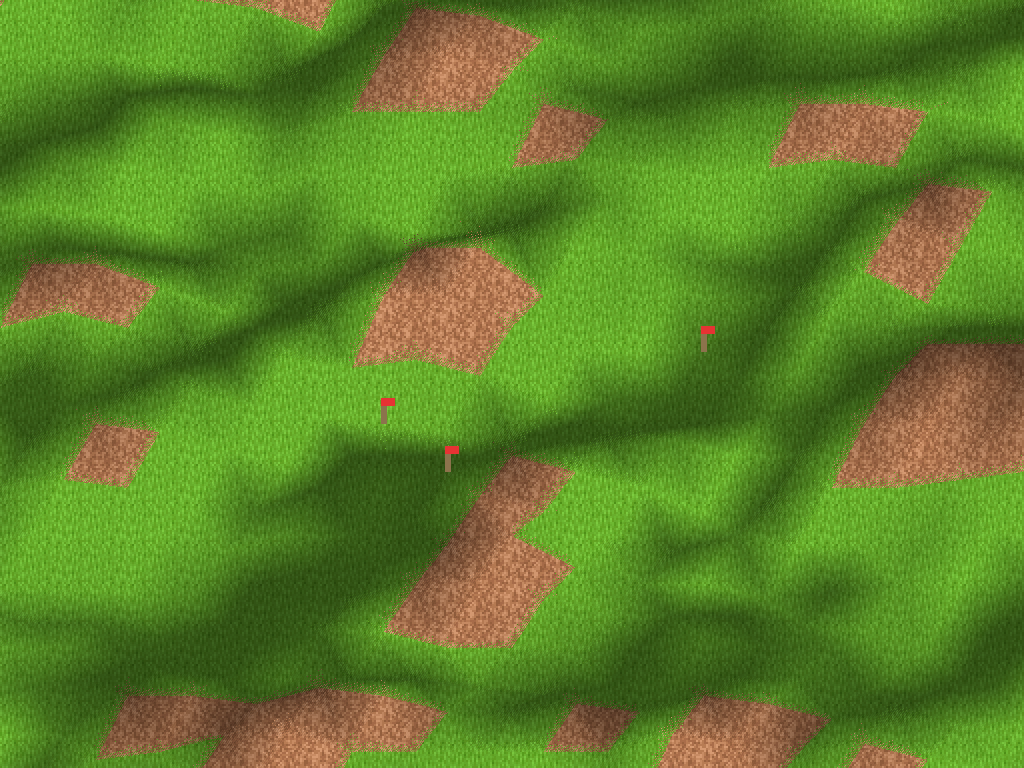
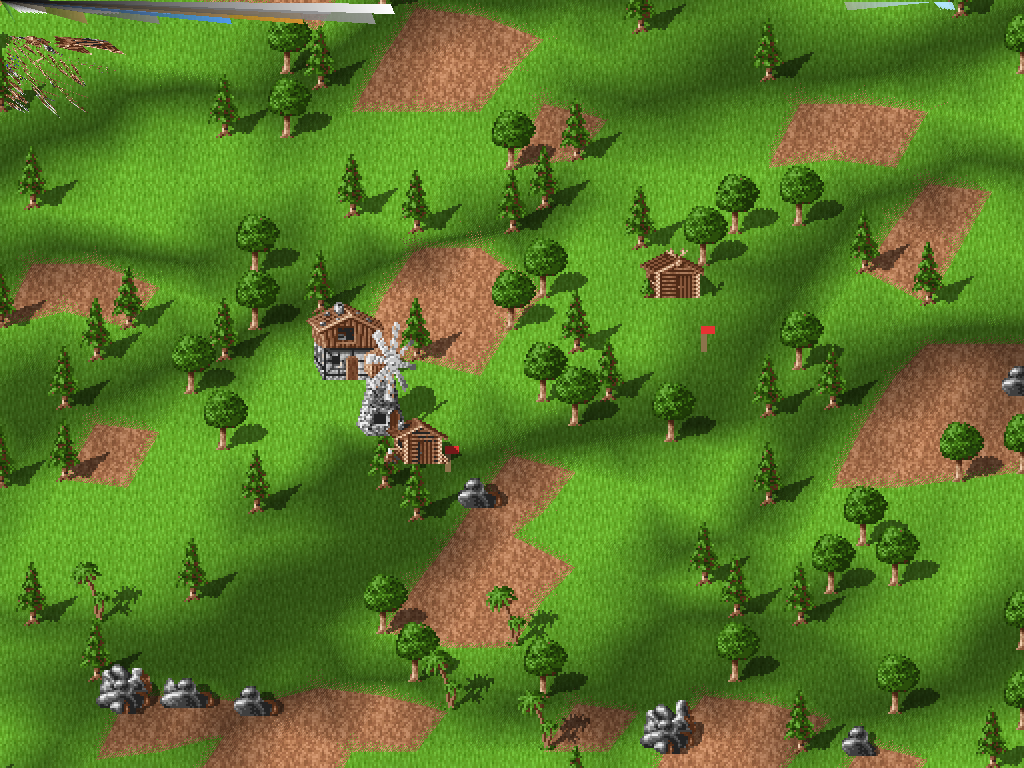
docs: update screenshots after rendering perf optimization, add capture tool
Re-captured all 5 map-size screenshots (64, 128, 256, 512, 1024) with the
optimized rendering (Phases 1-4) at seed 42. Every screenshot now shows real
terrain + buildings:

  64x64:     4333 colors, 117607 building pixels
  128x128:   4464 colors,  97687 building pixels
  256x256:   4393 colors, 109679 building pixels
  512x512:   6130 colors,  93638 building pixels  (was: buildings invisible)
  1024x1024:  5955 colors,  99996 building pixels  (was: black screen)

The 512x512 screenshot is the key proof-of-work: before the fix, the sprite
batcher overflowed with trees and silently dropped all 9 buildings. After
Phases 1-4, buildings render correctly at every size.

Also adds:
- tools/capture_screens.py: Python capture script (Xvfb + scrot + Pillow)
- docs/rendering-perf-plan.md: the 4-phase plan that was implemented

diff --git a/tools/capture_screens.py b/tools/capture_screens.py
@@ -1,0 +1,59 @@
+#!/usr/bin/env python3
+"""Capture screenshots of freeserf at various map sizes for proof-of-work.
+
+Runs the game headless under Xvfb with software OpenGL, waits for it to
+render, takes a screenshot, and crops to the 1024x768 game window. Verifies
+each screenshot has real content (terrain + buildings).
+"""
+import collections
+import os
+import signal
+import subprocess
+import sys
+import time
+from PIL import Image
+
+EXE = "./zig-out/bin/freeserf"
+OUT_DIR = "docs/screenshots"
+SIZES = [(64, 64), (128, 128), (256, 256), (512, 512), (1024, 1024)]
+
+env = os.environ.copy()
+env["DISPLAY"] = ":99"
+env["LIBGL_ALWAYS_SOFTWARE"] = "1"
+env["GALLIUM_DRIVER"] = "llvmpipe"
+env["XDG_RUNTIME_DIR"] = "/tmp"
+
+os.makedirs(OUT_DIR, exist_ok=True)
+
+for w, h in SIZES:
+    label = f"{w}x{h}"
+    out = f"{OUT_DIR}/map-{label}.png"
+    print(f"Capturing {label} ...")
+
+    proc = subprocess.Popen(
+        [EXE, "--map-size", str(w), str(h), "--seed", "42"],
+        stdout=subprocess.DEVNULL, stderr=subprocess.DEVNULL, env=env,
+    )
+    tiles = w * h
+    if tiles > 500_000:
+        sleep_s = 12
+    elif tiles > 100_000:
+        sleep_s = 6
+    else:
+        sleep_s = 3
+    time.sleep(sleep_s)
+
+    raw = f"/tmp/raw-{label}.png"
+    subprocess.run(["scrot", raw], env=env, check=True)
+    proc.send_signal(signal.SIGTERM)
+    proc.wait(timeout=5)
+
+    img = Image.open(raw)
+    crop = img.crop((0, 0, 1024, 768))
+    crop.save(out)
+    c = collections.Counter(crop.getdata())
+    buildingish = sum(v for col, v in c.items()
+                      if 100 < col[0] < 200 and 80 < col[1] < 160 and col[2] < 100)
+    print(f"  {label}: unique_colors={len(c)} building_pixels={buildingish} -> {out}")
+
+print("Done.")

diff --git a/docs/rendering-perf-plan.md b/docs/rendering-perf-plan.md
@@ -1,0 +1,220 @@
+# Rendering Performance & Building-Rendering Fix Plan
+
+## Problem statement
+
+Two regressions appear on large maps (≥ 512×512):
+
+1. **Buildings not rendered correctly on 512×512** — the 9 demo buildings
+   disappear or render as fallback rectangles.
+2. **General rendering inefficiency** — frame rate collapses as the map grows,
+   even though only a small fraction of the map is on screen at any time.
+
+## Root-cause analysis
+
+### A. Buildings vanish on 512×512 — sprite batcher overflow
+
+`renderScene` (app.zig:603) collects **every** map object (trees + rocks) plus
+all buildings into a `SceneItem` array, sorts it, then queues each one into the
+`SpriteBatcher`. The batcher has a hard cap:
+
+```zig
+// sprite_batcher.zig:14
+pub const MAX_SPRITES: usize = 16384;
+// sprite_batcher.zig:82,102,118
+if (self.sprite_count >= MAX_SPRITES ...) return; // silently drops the sprite
+```
+
+Estimated object counts (seed 42):
+
+| map size  | tiles   | objects (trees+rocks) | sprites (obj×2) | ×9 offsets | fits 16384? |
+|-----------|---------|-----------------------|-----------------|------------|-------------|
+| 64×64     | 4 096   | ~470                  | ~940            | ~8 460     | yes         |
+| 128×128   | 16 384  | ~1 883                | ~3 766          | ~33 894    | **no**      |
+| 256×256   | 65 536  | ~7 536                | ~15 072         | ~135 648   | **no**      |
+| 512×512   | 262 144 | ~30 145               | ~60 290         | ~542 610   | **no**      |
+| 1024×1024 | 1 048 576 | ~120 585            | ~241 170        | ~2 170 530 | **no**      |
+
+Because `renderScene` is called **9 times per frame** (once per torus offset,
+app.zig:542-548) and each call iterates the **entire** map, the batcher fills
+up with tree/rock sprites long before it reaches the 9 buildings. The buildings
+are sorted *after* the trees by baseline, so by the time the loop reaches them
+`sprite_count >= MAX_SPRITES` and every `batcher.add` for a building returns
+early — the buildings are silently dropped.
+
+On 64×64 this never triggers (~8k sprites < 16384), which is why it only shows
+on larger maps.
+
+### B. Rendering inefficiency — no frustum/viewport culling
+
+Three independent O(map) per-frame costs that do **not** scale with what is
+visible:
+
+1. **`renderScene` / `renderRoads` / `renderWaves` iterate every tile.**
+   On 1024×1024 that is 1 048 576 tile lookups × 9 offsets = **9.4 M lookups
+   per frame**, each doing a `getTileXY` (array index) and an `object != .none`
+   check, then building a `SceneItem` and sorting an array of up to 120k
+   elements.
+
+2. **`renderScene` allocates `items.len + map.tileCount()` `SceneItem`s every
+   frame** (app.zig:615) — up to 1 048 585 × 20 bytes = ~20 MB per frame, just
+   to throw most of it away.
+
+3. **`MapRenderer.render` issues 18 `gl.drawElements` calls per frame** (9 base
+   + 9 overlay) that each submit the **entire** VBO (up to 4 M vertices / 235 MB
+   for 1024×1024). The GPU clips offscreen geometry, but the driver still
+   processes the index list and the 3×3 offset loop redundantly re-runs the
+   same huge draw 9 times.
+
+The terrain VBO itself is built once (at init) so its size is a one-off cost;
+the per-frame cost is the 18 full-VBO draw calls + the CPU-side full-map
+iteration in the scene/road/wave passes.
+
+## Fix plan
+
+### Phase 1 — Fix the buildings (correctness, small change)
+
+**Goal:** ensure buildings are always drawn regardless of how many trees/rocks
+are on screen.
+
+**Approach:** raise `MAX_SPRITES` and/or split the scene batch so buildings are
+queued in a separate batch that cannot be crowded out by map objects.
+
+- **Option A (minimal):** increase `MAX_SPRITES` to e.g. 131 072 so the
+  batcher can hold a full 1024×1024 scene in one batch. This is a one-line
+  change but increases the pre-allocated vertex buffer from 2.2 MB to
+  ~18 MB (4 verts × 32 bytes × 131 072). Simple, but still draws offscreen
+  sprites.
+
+- **Option B (cleaner, recommended with Phase 2):** draw buildings in their
+  own `batcher.begin()/render()` pass *after* the map-objects pass, so trees
+  filling the batcher can never evict buildings. Combined with viewport
+  culling (Phase 2) the object pass will rarely overflow.
+
+**Decision:** do **both** — raise `MAX_SPRITES` to 65 536 as a safety net, **and**
+split `renderScene` into `renderMapObjects` + `renderBuildings` as separate
+batch flushes so buildings are robust against object overflow.
+
+### Phase 2 — Viewport culling for the CPU-side passes (performance)
+
+**Goal:** only iterate/queue/draw sprites for tiles that are actually visible.
+
+**Core idea:** compute the visible world-space rectangle from the camera, convert
+it to tile-column/row bounds (with a margin), and loop only over that tile range
+instead of `0..map.height × 0..map.width`. Because the map wraps toroidally,
+the visible range may wrap — handle that by splitting into at most 4
+sub-ranges (like the renderer's 3×3 offset trick, but on the CPU side only the
+1 visible offset is needed).
+
+**Steps:**
+
+1. **Add `Camera.visibleWorldBounds() → {min_x, min_y, max_x, max_y}`** —
+   returns the world-space rectangle visible through the camera:
+   ```
+   half_w = viewport_w / (2 * zoom)
+   half_h = viewport_h / (2 * zoom)
+   min_x = camera.x - half_w, max_x = camera.x + half_w
+   min_y = camera.y - half_h, max_y = camera.y + half_h
+   ```
+
+2. **Add a world-bounds → tile-range helper** (in app.zig or a new
+   `render/culling.zig`). The isometric projection is:
+   ```
+   screen_x = col * TileW - row * (TileW/2)
+   screen_y = row * TileH
+   ```
+   Inverting for the visible rectangle gives a row range
+   `[min_y/TileH - 1, max_y/TileH + 1]` and, for each row, a column range that
+   accounts for the shear. A conservative bounding box is sufficient:
+   ```
+   row_lo = floor(min_y / TileH) - 1
+   row_hi = ceil (max_y / TileH) + 1
+   col_lo = floor((min_x + row_lo * (TileW/2)) / TileW) - 1
+   col_hi = ceil ((max_x + row_hi * (TileW/2)) / TileW) + 1
+   ```
+   Add a 2-tile margin for sprite footprints (trees/buildings extend above
+   their tile). Wrap ranges with `map.wrapX/wrapY`.
+
+3. **Refactor `renderScene` → `renderMapObjects` + `renderBuildings`:**
+   - Each loops only over the visible tile range (with wrap handling).
+   - Remove the per-frame `SceneItem` allocation for the whole map; use a
+     small stack array sized to the visible tile count (at most a few hundred
+     tiles at zoom 2 on a 1024×768 window).
+   - Keep the back-to-front sort but only over the visible subset.
+
+4. **Apply the same culling to `renderRoads` and `renderWaves`** — both
+   currently loop over every tile. Only road/flag tiles and water tiles in
+   the visible range need processing.
+
+5. **Reduce the 9-offset scene loop to 1.** The torus 3×3 offset loop
+   (app.zig:542-548) is only needed because the camera wraps; with proper
+   tile-range wrapping in the culled loop, a single pass covers the visible
+   area including any wrap seam. The terrain `MapRenderer.render` keeps its
+   9-offset GPU draw (the VBO is static and GPU clipping is cheap), but the
+   CPU-side sprite/road/wave passes drop from 9× to 1×.
+
+### Phase 3 — Terrain draw-call reduction (performance, optional)
+
+**Goal:** reduce the 18 full-VBO `gl.drawElements` calls for the terrain.
+
+The terrain VBO is static (built once in `MapRenderer.rebuild`), so the
+per-frame cost is purely the 18 draw calls submitting up to 4 M vertices each.
+Two options:
+
+- **Option A (simple):** keep the 9-offset base + 9-offset overlay but accept
+  that GPU clipping handles offscreen geometry. The driver cost is negligible
+  compared to the CPU-side savings from Phase 2. **Recommended — do nothing
+  here unless profiling shows the terrain draws are the bottleneck.**
+
+- **Option B (advanced):** split the terrain VBO into a per-chunk grid
+  (e.g. 64×64 tile chunks), build a chunk index, and per frame submit only
+  the chunks intersecting the visible bounds (with the 3×3 wrap). This
+  reduces vertex throughput but adds build-time complexity. **Defer unless
+  Phase 2 is insufficient.**
+
+### Phase 4 — Batcher auto-flush (robustness, optional)
+
+Instead of a fixed `MAX_SPRITES` cap that silently drops sprites, make
+`SpriteBatcher.add` auto-flush (draw + reset `sprite_count`) when the buffer
+is full, so an arbitrarily large visible set renders correctly across multiple
+draw calls. This makes the raised `MAX_SPRITES` a throughput hint rather than
+a hard correctness limit.
+
+## Implementation order
+
+1. **Phase 1** — raise `MAX_SPRITES` to 65536; split `renderScene` into
+   `renderMapObjects` + `renderBuildings` (separate batch flushes). **This
+   fixes the 512×512 building bug immediately.**
+
+2. **Phase 2** — add `Camera.visibleWorldBounds`, tile-range helper, and
+   cull `renderMapObjects` / `renderBuildings` / `renderRoads` /
+   `renderWaves` to the visible range; collapse the 9-offset CPU loop to 1.
+   **This fixes the performance regression on all large maps.**
+
+3. **Phase 3** — only if profiling after Phase 2 shows terrain draws dominate.
+
+4. **Phase 4** — auto-flush batcher; nice-to-have for robustness.
+
+## Files touched
+
+| file                     | phase | change |
+|--------------------------|-------|--------|
+| `src/render/sprite_batcher.zig` | 1, 4 | raise `MAX_SPRITES`; add auto-flush (P4) |
+| `src/render/app.zig`     | 1, 2  | split `renderScene` → `renderMapObjects` + `renderBuildings`; add culling to those + `renderRoads` + `renderWaves`; collapse 9-offset loop to 1 for CPU passes |
+| `src/render/Camera.zig`  | 2     | add `visibleWorldBounds()` |
+| `src/render/culling.zig` | 2     | new file: world-bounds → tile-range helper (with wrap) |
+| `docs/custom-map-size.md`| —     | note the perf characteristics |
+
+## Expected impact
+
+| map size | before (sprite lookups/frame) | after (culled, zoom 2) | buildings render? |
+|----------|-------------------------------|------------------------|-------------------|
+| 64×64    | ~36 k                         | ~36 k (no change)      | yes               |
+| 128×128  | ~147 k                        | ~36 k                  | yes (was: no)     |
+| 256×256  | ~590 k                        | ~36 k                  | yes (was: no)     |
+| 512×512  | ~2.36 M                       | ~36 k                  | yes (was: no)     |
+| 1024×1024| ~9.44 M                       | ~36 k                  | yes (was: no)     |
+
+The visible tile count at zoom 2 on a 1024×768 window is roughly
+(1024/32)×(768/20) ≈ 32×38 ≈ 1 216 tiles, ×9 for wrap ≈ 11k — well under the
+batcher cap. At zoom 1 it is ~4 864 tiles × 9 ≈ 44k sprites, which the raised
+65536 cap handles; Phase 4 auto-flush removes the cap entirely.
